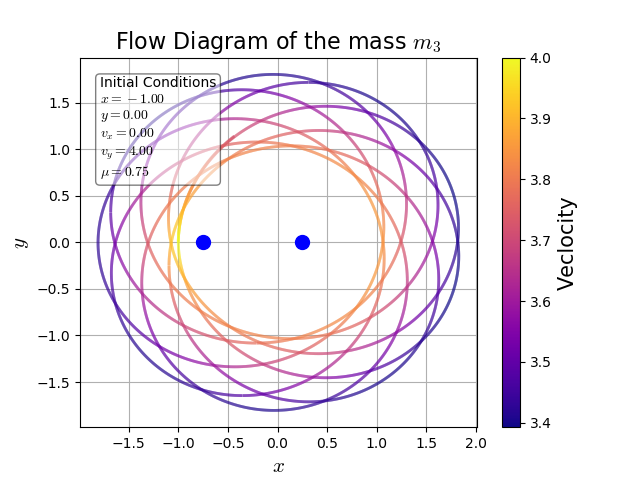
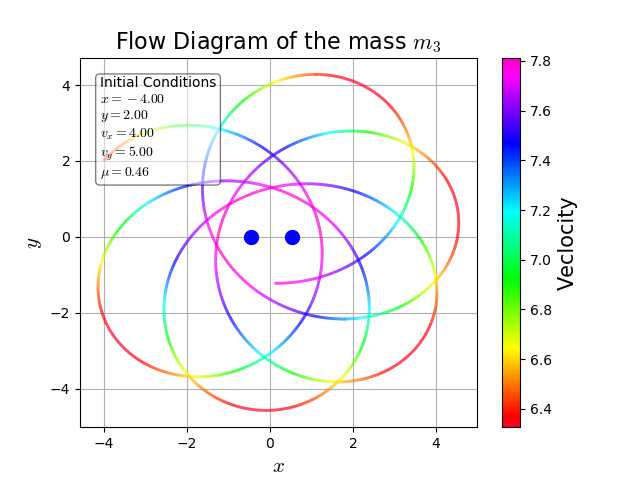
Added time

diff --git a/Code/Lagrange_GUI.py b/Code/Lagrange_GUI.py
@@ -13,7 +13,7 @@ from tkinter.filedialog import *
 import tkinter.messagebox
 
 cmaps = ['plasma', 'rainbow', 'gist_rainbow']
-cmapType = cmaps[0]
+cmapType = cmaps[2]
 
 class GUI:
     def __init__(self, root):
@@ -103,35 +103,44 @@ class GUI:
         self.muHold = ttk.Checkbutton(self.inputFrame, text="Hold", variable=muHold)
         self.muHold.grid(column=1, row=6, padx=(50, 0), pady=(0, 5))
 
+        self.timeLabel = Label(self.inputFrame, text="Time:")
+        self.timeLabel.grid(column=0, row=7, padx=(0, 0), pady=(0, 5))
+
+        global timeVal
+        timeVal = StringVar()
+        self.timeVal = ttk.Entry(self.inputFrame, width=10, textvariable=timeVal)
+        self.timeVal.grid(column=1, row=7, padx=(0, 0), sticky=W, pady=(0, 5))
+        timeVal.set(20)
+
         self.PlotNumLabel = Label(self.inputFrame, text="Plots:")
-        self.PlotNumLabel.grid(column=0, row=7, padx=(0, 0), pady=(0, 5))
+        self.PlotNumLabel.grid(column=0, row=8, padx=(0, 0), pady=(0, 5))
 
         global plotNum
         plotNum = StringVar()
         self.plotNum = ttk.Entry(self.inputFrame, width=7, textvariable=plotNum)
-        self.plotNum.grid(column=1, row=7, padx=(0, 0), sticky=W, pady=(0, 5))
+        self.plotNum.grid(column=1, row=8, padx=(0, 0), sticky=W, pady=(0, 5))
 
         global plotVel
         plotVel = IntVar()
         self.plotVel = ttk.Checkbutton(self.inputFrame, text="Plot Velocity", variable=plotVel)
-        self.plotVel.grid(column=1, row=7, padx=(50, 0), pady=(0, 5))
+        self.plotVel.grid(column=1, row=8, padx=(50, 0), pady=(0, 5))
 
         self.plotFrame = Frame(self.content)
         self.plotFrame.pack()
 
         self.plotRandomButton = ttk.Button(self.plotFrame, text="Plot Random", command=self.PlotRandom)
-        self.plotRandomButton.grid(column=1, row=8,  padx=(0,85), pady=(5, 0))
+        self.plotRandomButton.grid(column=1, row=9,  padx=(0,85), pady=(5, 0))
 
         self.plotValuesButton = ttk.Button(self.plotFrame, text="Plot Values", command=self.PlotValues)
-        self.plotValuesButton.grid(column=1, row=8, padx=(85,0), pady=(5,0))
+        self.plotValuesButton.grid(column=1, row=9, padx=(85,0), pady=(5,0))
 
         self.plotPotentialButton = ttk.Button(self.plotFrame, text="Plot Potential", command=self.PlotPotential)
-        self.plotPotentialButton.grid(column=1, row=9, padx=(0,85), pady=(1, 0))
+        self.plotPotentialButton.grid(column=1, row=10, padx=(0,85), pady=(1, 0))
 
         global topDown
         topDown = IntVar()
         self.topDown = ttk.Checkbutton(self.plotFrame, text="Top Down", variable=topDown)
-        self.topDown.grid(column=1, row=9, padx=(85, 0), pady=(1, 0))
+        self.topDown.grid(column=1, row=10, padx=(85, 0), pady=(1, 0))
 
 
     def PlotRandom(self):
@@ -158,7 +167,7 @@ class GUI:
                     vy = float(self.vyVal.get())
 
                 if muHold.get() == 0:
-                    mu = round(random.random(), 2)
+                    mu = round(np.random.uniform(low=0, high=0.49), 2)
                 else:
                     mu = float(self.muVal.get())
 
@@ -214,7 +223,7 @@ def ColourConvert(rgb):
 
 def Orbit(initial, mu, velocity):
     #Data for plotting
-    t=np.arange(0.0,20.0,0.001)  # time steps
+    t=np.arange(0.0,timeVal,0.001)  # time steps
 
     def motion(state ,t):
         x, y, vx, vy = state  # unpack state vector

diff --git a/Code/njfdsnjdfsnjdfsnjdfskj.py b/Code/njfdsnjdfsnjdfsnjdfskj.py
@@ -1,0 +1,3 @@
+import numpy as np
+
+print(np.random.uniform(low=0, high=0.49))
